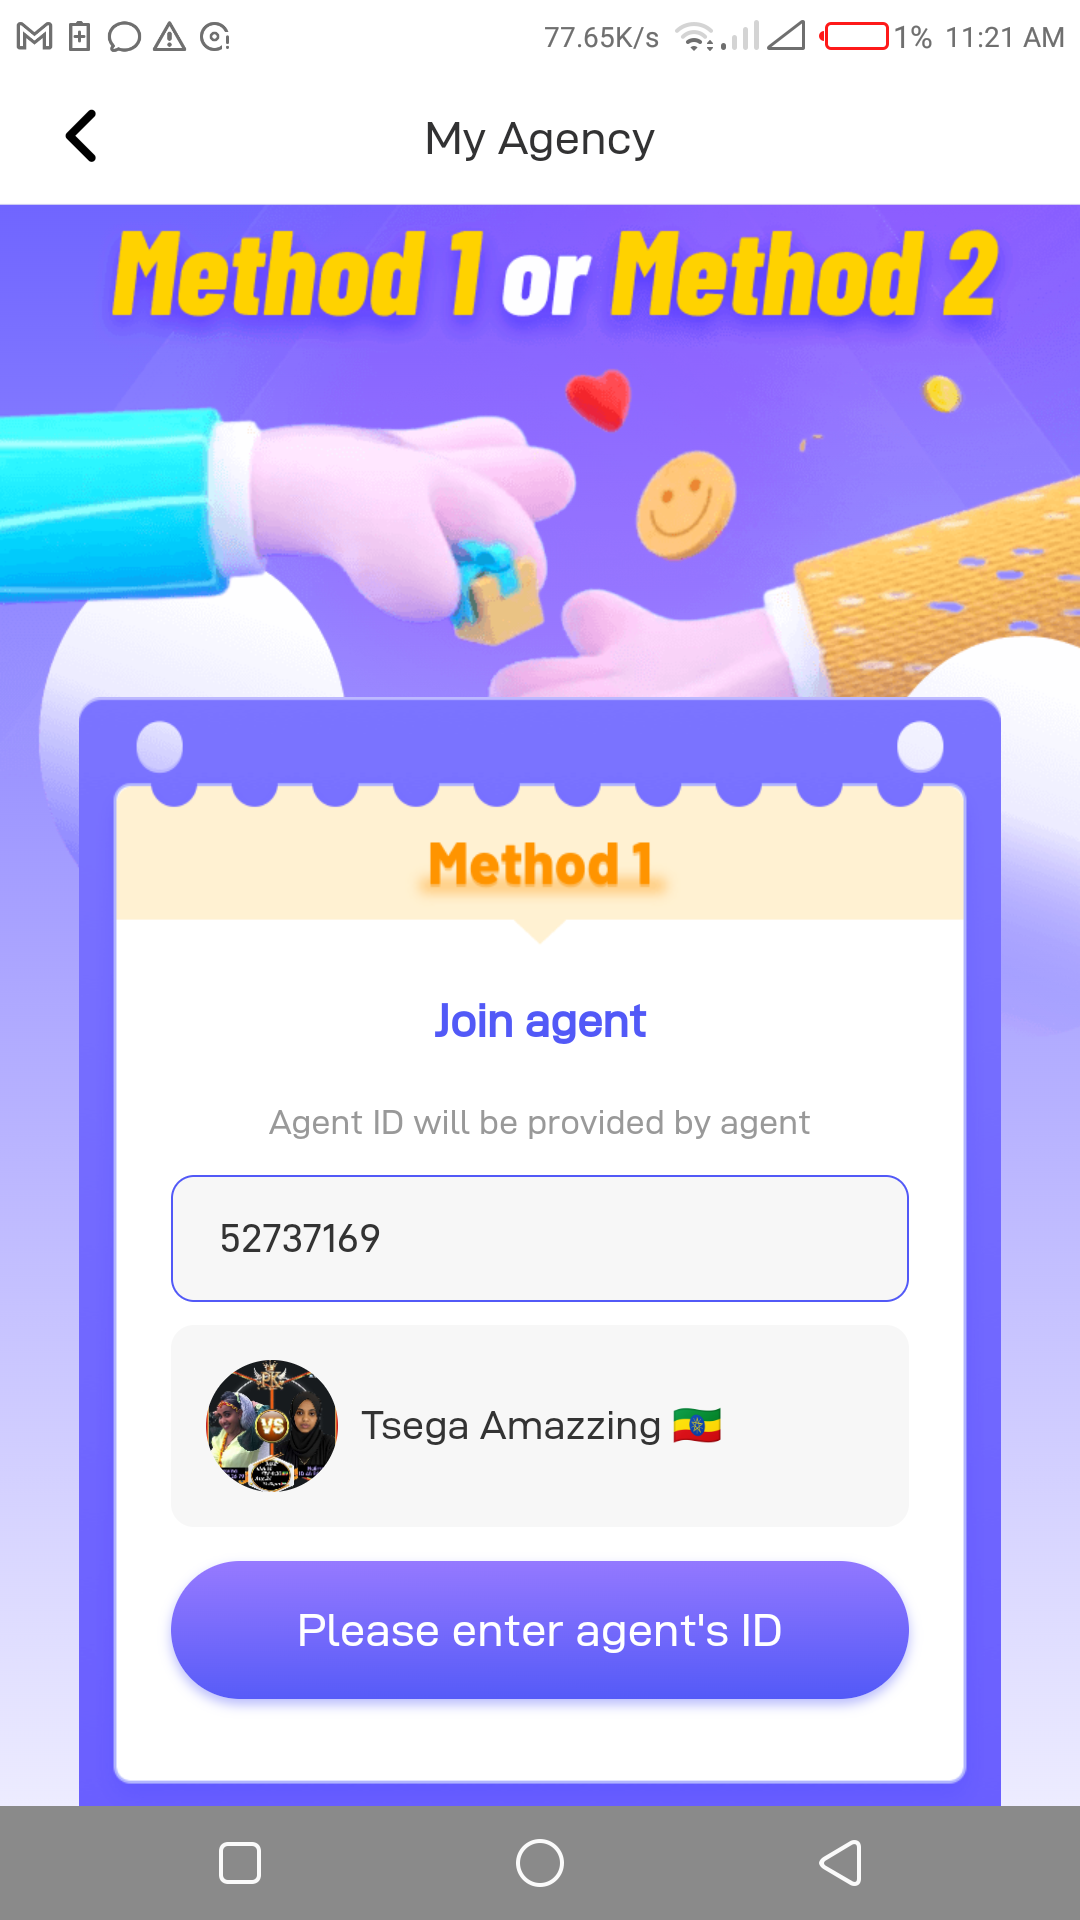
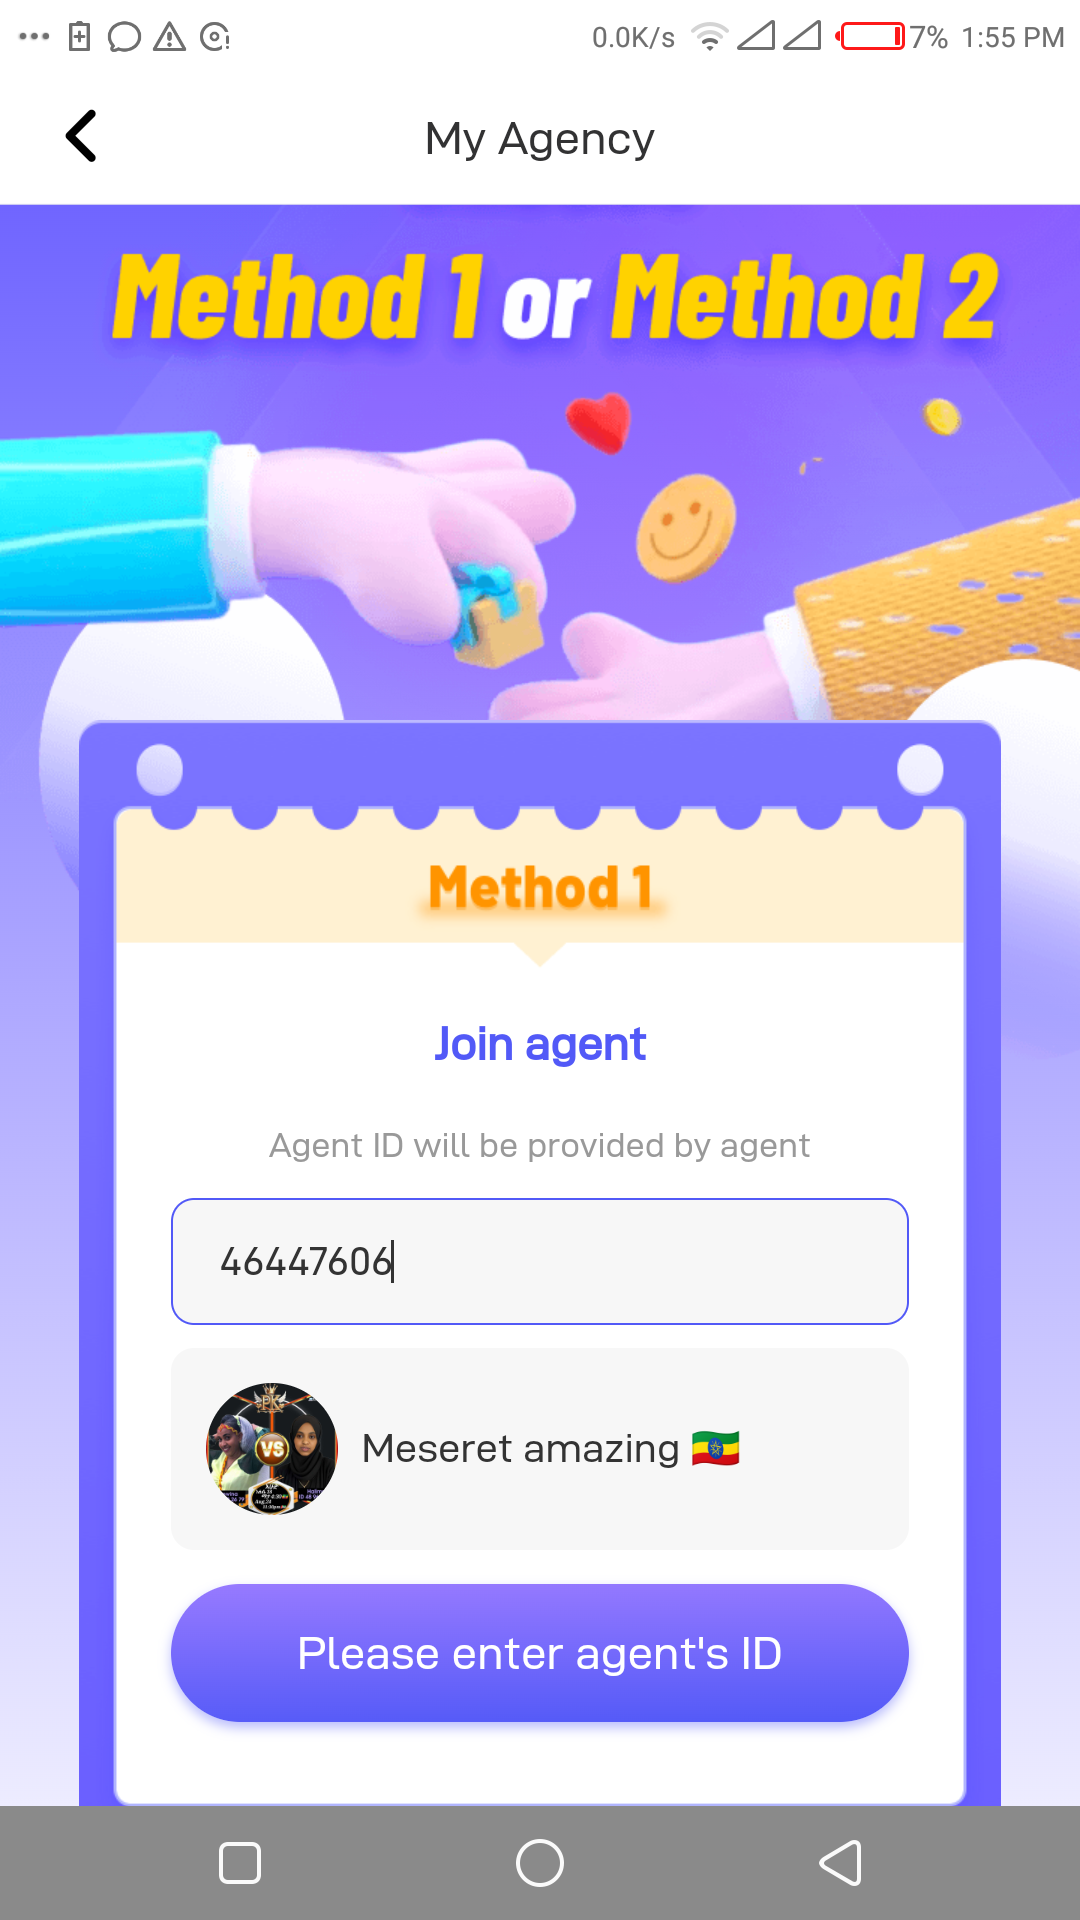
meseret 13

diff --git a/index.html b/index.html
@@ -13,7 +13,7 @@
 
 <link rel="icon" type="image/png" href="assets/image/icon.png">
 
-<title data-i18n="page_title">Poppo Live Agent Tsega Template</title>
+<title data-i18n="page_title">Poppo Live Agent Meseret Template</title>
 
 <link rel="stylesheet" href="assets/css/style.css">
 
@@ -35,7 +35,7 @@
 
 </div>
 
-<div class="logo-text" data-i18n="logo_text">Agent Tsega</div>
+<div class="logo-text" data-i18n="logo_text">Agent Meseret</div>
 
 </div>
 
@@ -56,11 +56,8 @@
 
     <!-- floating ID number -->
      <div class="floating-id">
-        <div class="id-number" data-i18n="live_id">52737169
-            
-        </div>
-        <div class="id-label" data-i18n="live_id_label">Tsega Amazing
-        </div>
+        <div class="id-number" data-i18n="live_id">46447606</div>
+        <div class="id-label" data-i18n="live_id_label">Meseret Amazing</div>
     </div>
 
     <!-- Home Page -->
@@ -73,7 +70,7 @@
     </div>
     <!-- Hero Section -->
     <section class="hero-section">
-        <h1 class="hero-title" data-i18n="hero_title">Welcome to Agent Tsega's personal page.</h1>
+        <h1 class="hero-title" data-i18n="hero_title">Welcome to Agent Meseret's personal page.</h1>
         <p class="hero-subtitle" data-i18n="hero_subtitle">Here you will find everything you need to become a successful Poppo Live user</p>
     </section>
 
@@ -81,26 +78,26 @@
     <section class="section slide-in-left sectionii">
         <div class="content">
         <div class="a-circle-profile-image">
-            <img src="assets/image/photo_2025-06-13_15-42-59.jpg" alt="Agent Tsega Andarge" data-i18n="img_agent_kamal" />
+            <img src="assets/image/photo_2025-06-13_15-42-59.jpg" alt="Agent Meseret" data-i18n="img_agent_kamal" />
         </div>
         <div class="text">
-            <h2 data-i18n="hello_agent_meseret">Hello, I am Agent Tsega</h2>
+            <h2 data-i18n="hello_agent_meseret">Hello, I am Agent Meseret</h2>
             <p data-i18n="agent_meseret_intro">It's been 5 months since I started working on Poppo Live. I'm earning over 100,000 birr per month. <br>
                 <div class="social-icons">
                     
                     <div class="social-icon">
-                    <a href="https://www.telegram.me/+251916133989" target="_blank" data-i18n="tiktok_link">
+                    <a href="https://www.telegram.me/+251916841522" target="_blank" data-i18n="tiktok_link">
                         <img src="assets/image/telegram1.png" alt="facebook_link" /></a>
                         <span class="social-icon-text" data-i18n="telegram_link">Telegram</span>
                     </div>
                     
                     <div class="social-icon">
-                    <a href="https://www.facebook.com/share/+251916133989/" target="_blank" data-i18n="tiktok_link">
+                    <a href="https://www.Whatsapp.com/+251916841522/" target="_blank" data-i18n="tiktok_link">
                         <img src="assets/image/whatsapp.png" alt="facebook_link" /></a>
                         <span class="social-icon-text" data-i18n="whatsapp_link">Whatsapp</span>
                     </div>
                     <div class="social-icon">
-                    <a href="https://www.tiktok.com/@adonimiratsega" target="_blank" data-i18n="tiktok_link">
+                    <a href="https://www.tiktok.com/@rehoboth383/" target="_blank" data-i18n="tiktok_link">
                         <img src="assets/image/tik-tok.png" alt="tiktok_link" /></a>
                         <span class="social-icon-text" data-i18n="tiktok_link">TikTok</span>
                     </div>
@@ -192,11 +189,11 @@
         <div class="text">
             <h2 data-i18n="finally">5. Finally</h2>
             <p data-i18n="finally_desc">When you tap "My Agency" from what's shown in the photo at point 4, this will appear. Next, tap "Please enter agent's 
-            ID" and enter "52737169",  then tap  below,  Tsega Andarge_Agency  and finally we tap "confirm" and a certificate will be shown to us.</p>
+            ID" and enter "46447606",  then tap  below,  Meseret Andarge_Agency  and finally we tap "confirm" and a certificate will be shown to us.</p>
             <div class="info-cards">
             <div class="info-card copy-card" data-aos="fade-right" data-aos-delay="600">
                 <i class="fas fa-id-badge"></i>
-                <p class="live-id" data-i18n="live_id">52737169</p>
+                <p class="live-id" data-i18n="live_id">46447606</p>
             </div>
             </div>
         </div>
@@ -276,7 +273,7 @@
 </div>
 
 <div class="offer-cta" data-aos="fade-up" data-aos-delay="500" style="text-align: center;">
-      <a href="https://h5.vshowapi.com/guild/agency_invite/register?inviter_id=52737169&c=poppo" class="fancy-btn gradient-btn" target="_blank" style="display: inline-block; text-align: center; padding: 12px 24px; background: linear-gradient(to right, #f72585, #7209b7); color: white; border-radius: 8px; font-weight: bold; text-decoration: none;" data-i18n="agency_registration_link"> Agency Registration  Link </a> </div>
+      <a href="https://h5.vshowapi.com/guild/agency_invite/register?inviter_id=46447606&c=poppo" class="fancy-btn gradient-btn" target="_blank" style="display: inline-block; text-align: center; padding: 12px 24px; background: linear-gradient(to right, #f72585, #7209b7); color: white; border-radius: 8px; font-weight: bold; text-decoration: none;" data-i18n="agency_registration_link"> Agency Registration  Link </a> </div>
 </div>
 
 </section>
@@ -383,7 +380,7 @@ and agency work. We earn different amounts of income from all of these.
         <img src="assets/image/photo_2025-06-13_15-42-59.jpg" alt="Agent Kamal" class="contact-avatar" data-aos="zoom-in" data-i18n="img_contact_avatar" />
         <div class="contact-title">
             <h3 data-aos="fade-right" data-i18n="contact_me">Contact Me</h3>
-            <p data-aos="fade-left" data-i18n="contact_professional">Agent Tsega andarge - Poppo Live Professional</p>
+            <p data-aos="fade-left" data-i18n="contact_professional">Agent Meseret andarge - Poppo Live Professional</p>
         </div>
         </div>
         
@@ -394,40 +391,40 @@ and agency work. We earn different amounts of income from all of these.
             <div class="contact-item" data-aos="fade-up" data-aos-delay="100">
                 <span class="icon-circle"><i class="fas fa-phone"></i></span>
                 <h3 data-i18n="phone">Phone</h3>
-                <p data-i18n="phone_number">+251903387980</p>
+                <p data-i18n="phone_number">+251916841522</p>
             </div>
             
             <div class="contact-item" data-aos="fade-up" data-aos-delay="200">
-                <a href="https://t.me/+251916133989" target="_blank" data-i18n="telegram_link"></a>
+                <a href="https://t.me/+251916841522" target="_blank" data-i18n="telegram_link"></a>
                 <span class="icon-circle"><i class="fab fa-telegram"></i></span>
                 <h3 data-i18n="telegram">Telegram</h3>
-                Tsega Telegram</a>
+                Meseret Telegram</a>
             </div>
             
             <div class="contact-item" data-aos="fade-up" data-aos-delay="300">
                 <a href="https://youtube.com/@bezadinku" target="_blank" data-i18n="youtube_link">
                 <span class="icon-circle"><i class="fab fa-youtube"></i></span>
                 <h3 data-i18n="youtube">YouTube</h3>
-                Tsega Youtube</a>
+                Meseret Youtube</a>
             </div>
             
             <div class="contact-item" data-aos="fade-up" data-aos-delay="400">
-                <a href="https://www.tiktok.com/@adonimiratsega" target="_blank" data-i18n="tiktok_link1">
+                <a href="https://www.tiktok.com/@rehoboth383/" target="_blank" data-i18n="tiktok_link1">
                 <span class="icon-circle"><i class="fab fa-tiktok"></i></span>
                 <h3 data-i18n="tiktok">Tiktok</h3>
-                Tsega Tiktok</a>
+                Meseret Tiktok</a>
             </div>
             
             <div class="contact-item" data-aos="fade-up" data-aos-delay="500">
                 <span class="icon-circle"><i class="fab fa-facebook"></i></span>
                 <h3 data-i18n="facebook">Facebook</h3>
-                <a href="/" target="_blank" data-i18n="facebook_link">Tsega Facebook</a>
+                <a href="/" target="_blank" data-i18n="facebook_link">Meseret Facebook</a>
             </div>
             
             <div class="contact-item" data-aos="fade-up" data-aos-delay="600">
                 <span class="icon-circle"><i class="fab fa-whatsapp"></i></span>
                 <h3 data-i18n="whatsapp">Whatsapp</h3>
-                <a href="https://wa.me/+251903387980" target="_blank" data-i18n="whatsapp_link">Tsega Whatsapp</a>
+                <a href="https://wa.me/+251916841522" target="_blank" data-i18n="whatsapp_link">Meseret Whatsapp</a>
             </div>
             </div>
         </div>

diff --git a/assets/css/style.css b/assets/css/style.css
@@ -1545,7 +1545,7 @@ details p {
 /* Image Slideshow Styles - Enhanced for responsiveness */
 .image-slideshow {
     position: relative;
-    width: 100%;
+    width: 50%;
     height: 400px; /* Default height for larger screens */
     overflow: hidden;
     border-radius: 10px;
@@ -1566,20 +1566,21 @@ details p {
     opacity: 1;
 }
 
-/* Responsive adjustments for slideshow */
 @media (max-width: 992px) {
     .image-slideshow {
         height: 350px;
+    }
+    .image-slideshow {
+    width: 100%;
     }
 }
 
 @media (max-width: 768px) {
     .image-slideshow {
         height: 300px;
-        margin-bottom: 1.5rem; /* Add spacing on mobile */
+        margin-bottom: 1.5rem;
     }
     
-    /* Ensure the slideshow container takes full width on mobile */
     .section.reverse .content {
         flex-direction: column;
     }
